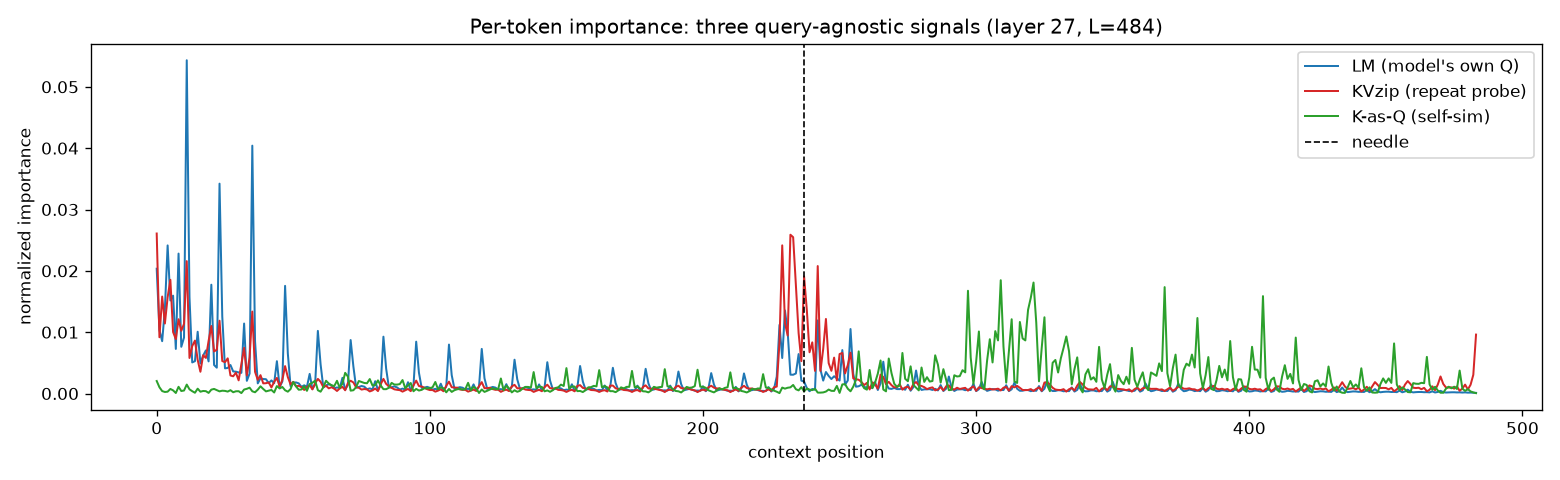
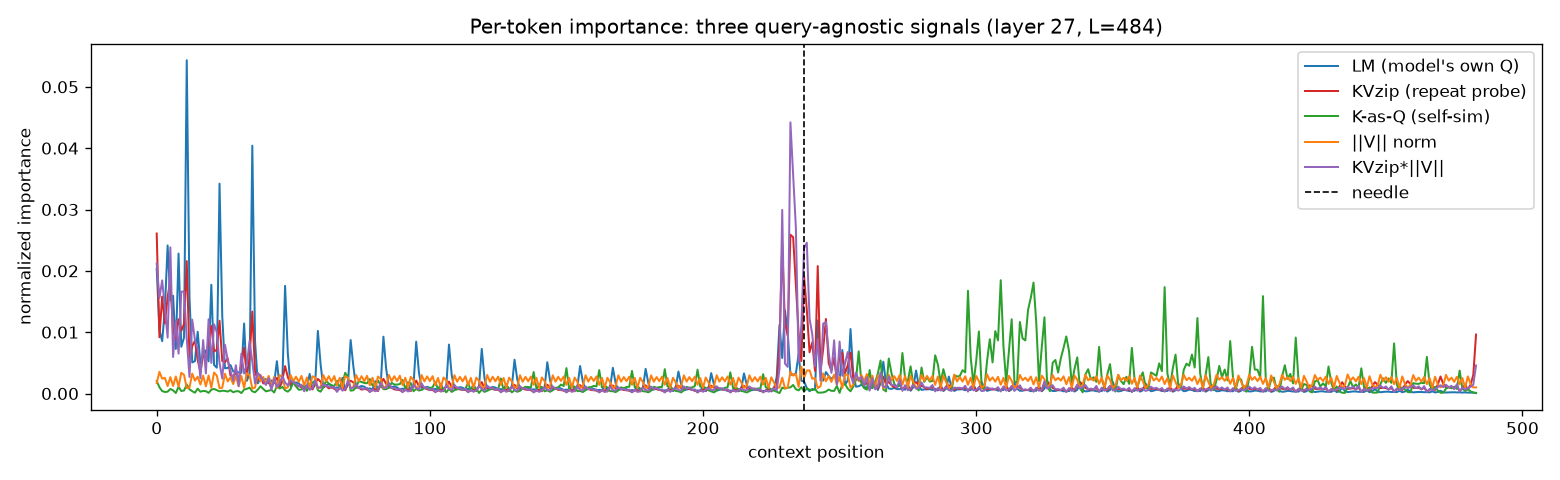
docs+test: 补 ‖V‖ 与相关矩阵（复述/ LM / K-as-Q / ‖V‖ 的差异）
Spearman: kvzip-lm +0.62（都含 sink）| kvzip-kasq -0.53（方向相反）
          ‖V‖ 与谁都不相关(-0.35/-0.15/+0.22)，且几乎平（top10% 仅 15.2%，needle rank 171）
          kvzip·‖V‖ 与 kvzip +0.74（只微调，needle rank 仍 6）→ ‖V‖ 只能当乘子，不能当信号

Changed region(s): [[0.0923, 0.3438, 0.9538, 0.8438], [0.8308, 0.2812, 0.9846, 0.4375]]

diff --git a/bench/attn_signal_heatmap.py b/bench/attn_signal_heatmap.py
@@ -54,16 +54,36 @@ def main():
     del out2
 
     keys = cache.layers[-1].keys[0][:, :L, :].float().cpu()   # [Hkv, L, D]
+    vals = cache.layers[-1].values[0][:, :L, :].float().cpu()  # [Hkv, L, D]
     kq = torch.einsum("hid,hjd->hij", keys, keys)
     A3 = torch.softmax(kq / keys.shape[-1] ** 0.5, dim=-1)   # [Hkv, L, L]  K-as-Q
 
+    vnorm = vals.norm(dim=-1).mean(0).numpy()                # [L]  ‖V‖
     imp_lm = A1.sum(dim=-2).mean(0).numpy()            # sum over queries
     imp_kv = A2[:, :, :L].amax(dim=-2).mean(0).numpy()  # max over probe queries
     imp_ka = A3.sum(dim=-2).mean(0).numpy()
+    imp_kvf = imp_kv * vnorm                           # KVzip 最终分 = attn * ‖V‖
 
-    np.savez(f"{OUT}/imp.npz", lm=imp_lm, kvzip=imp_kv, kasq=imp_ka,
-             needle=needle_pos, L=L)
-    for name, v in (("lm", imp_lm), ("kvzip", imp_kv), ("kasq", imp_ka)):
+    def spearman(a, b):
+        ra = np.argsort(np.argsort(a)).astype(np.float64)
+        rb = np.argsort(np.argsort(b)).astype(np.float64)
+        ra -= ra.mean()
+        rb -= rb.mean()
+        return float((ra * rb).sum() / np.sqrt((ra ** 2).sum() * (rb ** 2).sum()))
+
+    for n1, v1 in (("lm", imp_lm), ("kvzip", imp_kv), ("kasq", imp_ka),
+                   ("vnorm", vnorm), ("kvzip*V", imp_kvf)):
+        row = []
+        for n2, v2 in (("lm", imp_lm), ("kvzip", imp_kv), ("kasq", imp_ka),
+                       ("vnorm", vnorm), ("kvzip*V", imp_kvf)):
+            row.append(f"{spearman(v1, v2):+.2f}")
+        print(f"[SPEARMAN] {n1:>8}: " + " ".join(row), flush=True)
+
+    signals = [("lm", imp_lm), ("kvzip", imp_kv), ("kasq", imp_ka),
+               ("vnorm", vnorm), ("kvzip*V", imp_kvf)]
+    np.savez(f"{OUT}/imp.npz", needle=needle_pos, L=L,
+             **{k: v for k, v in signals})
+    for name, v in signals:
         t = v.sum()
         print(f"COVER {name}: sink64={v[:64].sum()/t:.3f} "
               f"win128={v[-128:].sum()/t:.3f} "
@@ -75,7 +95,9 @@ def main():
     plt.figure(figsize=(13, 4))
     for name, v, c in (("LM (model's own Q)", imp_lm, "tab:blue"),
                        ("KVzip (repeat probe)", imp_kv, "tab:red"),
-                       ("K-as-Q (self-sim)", imp_ka, "tab:green")):
+                       ("K-as-Q (self-sim)", imp_ka, "tab:green"),
+                       ("||V|| norm", vnorm, "tab:orange"),
+                       ("KVzip*||V||", imp_kvf, "tab:purple")):
         plt.plot(x, v / v.sum(), label=name, color=c, lw=1.2)
     plt.axvline(needle_pos, color="k", ls="--", lw=1, label="needle")
     plt.xlabel("context position")

diff --git a/docs/attention-signal.md b/docs/attention-signal.md
@@ -19,25 +19,38 @@
 | **LM** | `0,4,6,8,11,12,20,23,35,47` | **98/484** | 0.195% | 0.845 |
 | **KVzip** | `0,2,5,11,`**`229,232,233,234,237,242`** | **6/484** | **1.910%** | 0.873 |
 | **K-as-Q** | `297,309,313,319,320,321,325,369,381,405` | **431/484** | 0.034% | 0.907 |
+| **‖V‖**（value 范数） | — | 171/484 | 0.30% | 0.959 |
+| **KVzip·‖V‖** | （同 KVzip） | **6/484** | — | — |
 
 （needle 在第 237 位）
 
-## 三个结论（直接可视/可数）
+### Spearman 相关矩阵
 
-1. **LM 的 top-10 全在开头 47 个位置**——注意力被 **sink 主导**；真正的信息 token（needle，第 237 位）只排第 **98**。
-   → "平时被看" ≈ "sink + 局部"，**不是信息价值**。
+| | lm | kvzip | kasq | ‖V‖ | kvzip·‖V‖ |
+|---|---|---|---|---|---|
+| **lm** | +1.00 | +0.62 | −0.45 | −0.35 | +0.27 |
+| **kvzip** | +0.62 | +1.00 | **−0.53** | −0.15 | +0.74 |
+| **kasq** | −0.45 | −0.53 | +1.00 | +0.22 | −0.27 |
+| **‖V‖** | −0.35 | −0.15 | +0.22 | +1.00 | +0.44 |
 
-2. **KVzip 的 top-10 里有一簇紧贴 needle：`229,232,233,234,237,242`**——复述探针**精确锁定了 needle**（rank **6**，占比 0.195% → **1.910%，差 10 倍**）。
-   → 这就是"造一个复述探针"为什么有用：它**强制**模型去读需要复现的内容。
+### 集中度（top10% 覆盖）
 
-3. **K-as-Q 的 top-10 全在 needle 之后（297–405）**，needle 排 **431/484**（接近垫底）。
-   → 自相似测的是"**谁中心/冗余**"，不是"谁承载信息"；离群的信息 token 反被惩罚。
-   → 这也解释了 kvpress 里 `knorm`/`keydiff` 这类信号为什么差（@0.8 分别 −0.18 / −0.08）。
+lm 57.7% ｜ kvzip 54.9% ｜ kasq 42.9% ｜ **‖V‖ 仅 15.2%（几乎是平的）**
 
-## 熵的细节
+## 结论
 
-三者熵都接近（0.85–0.91），**说明"总量分布"看起来差不多，差别在 top-k 打在哪**——
-LM 打在 sink，KVzip 打在 needle+部分 sink，K-as-Q 打在无关的后段。
+1. **复述 vs baseline(LM)：+0.62 正相关，但 top-k 完全不同。**
+   相关只来自"两者都含 sink"；LM 的 top-10 **全在开头 47 位**，复述的 top-10 **含 needle 一簇**。
+
+2. **复述 vs K-as-Q：−0.53 负相关**——两个信号在"选谁"上**系统性相反**。
+   自相似奖励冗余/中心，复述奖励信息/离群，方向反了。
+
+3. **‖V‖（value 范数）几乎是平的**（top10% 只占 15.2%，needle rank 171），
+   和谁都不太相关 → **单独不能当重要性信号**。KVzip 只把它当**乘子**：
+   `kvzip·‖V‖` 与 `kvzip` 相关 +0.74、needle rank 仍是 6，**排序基本不变**（只微调）。
+   → 这解释了为什么 KVzip 把它放在最后一步做 rescale，而不是打分本身。
+
+4. **三者的"总量分布"看起来接近（熵 0.85–0.96），差别全在 top-k 打在哪。**
 
 ## 对我们的意义
 
